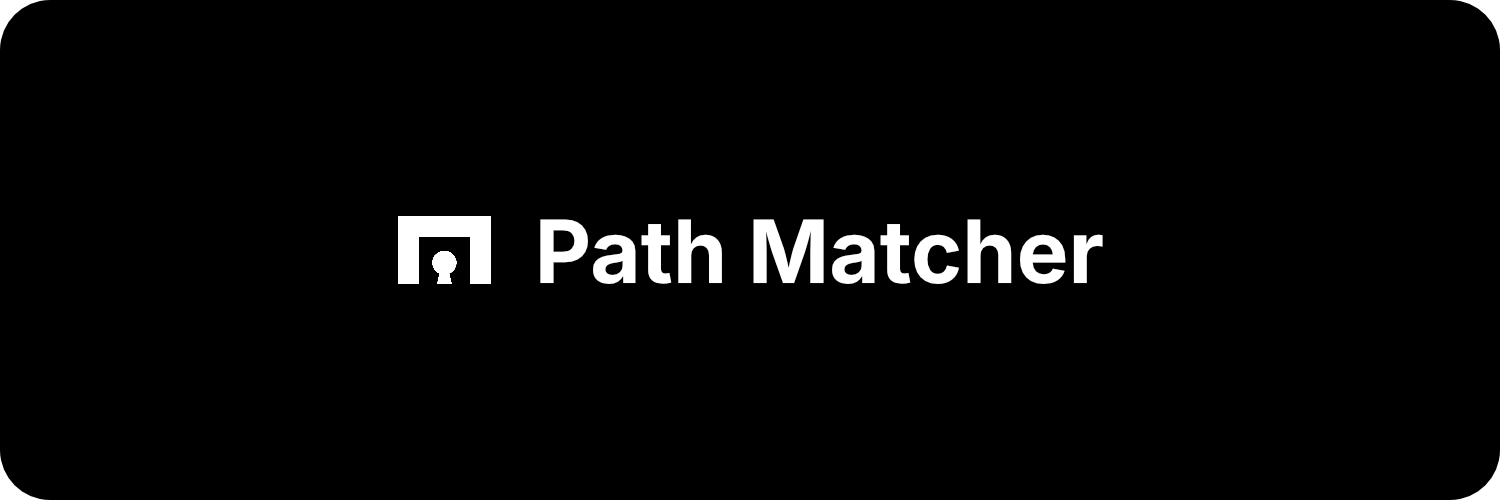
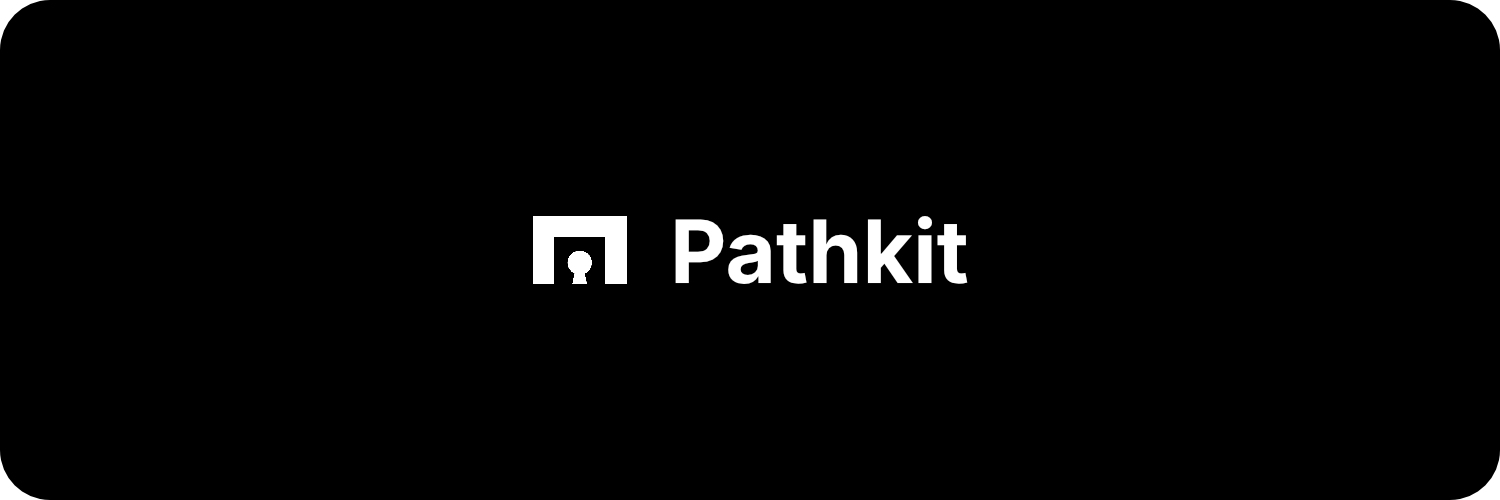
changed name to pathkit

Changed region(s): [[0.2453, 0.42, 0.736, 0.57]]

diff --git a/README.md b/README.md
@@ -1,13 +1,13 @@
-<img src="https://github.com/muijf/path-matcher/blob/main/.github/banner.png?raw=true">
+<img src="https://github.com/muijf/pathkit/blob/main/.github/banner.png?raw=true">
 
 <p align="center">
-  <a href="https://docs.muijf.com/path-matcher">Docs</a>
+  <a href="https://docs.muijf.com/pathkit">Docs</a>
 </p>
 
 # Installation
 
 ```bash
-npm install @path-matcher/core
+npm install @pathkit/object
 ```
 
 # Usage
@@ -15,7 +15,7 @@ npm install @path-matcher/core
 ## Filter
 
 ```ts
-import { filter } from "@path-matcher/core";
+import { filter } from "@pathkit/object";
 
 const obj = {
   hello: {
